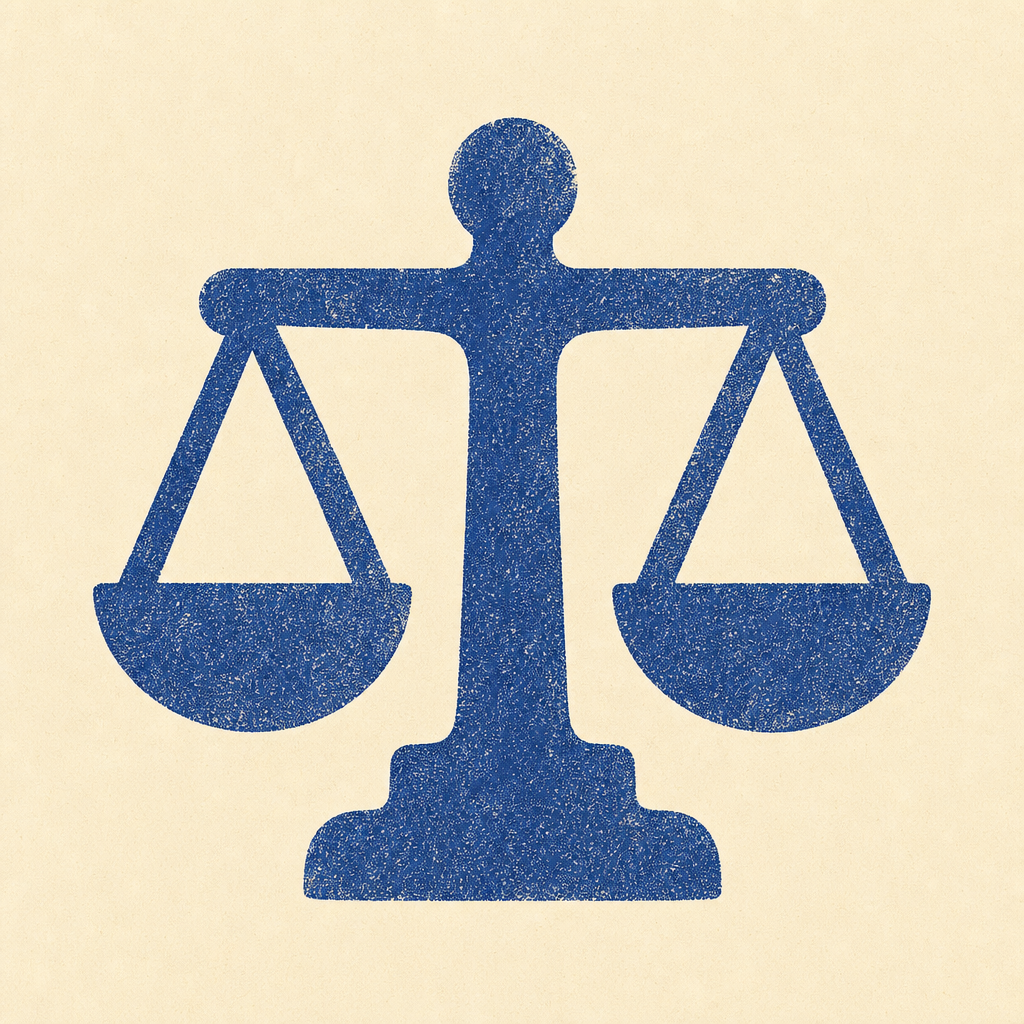
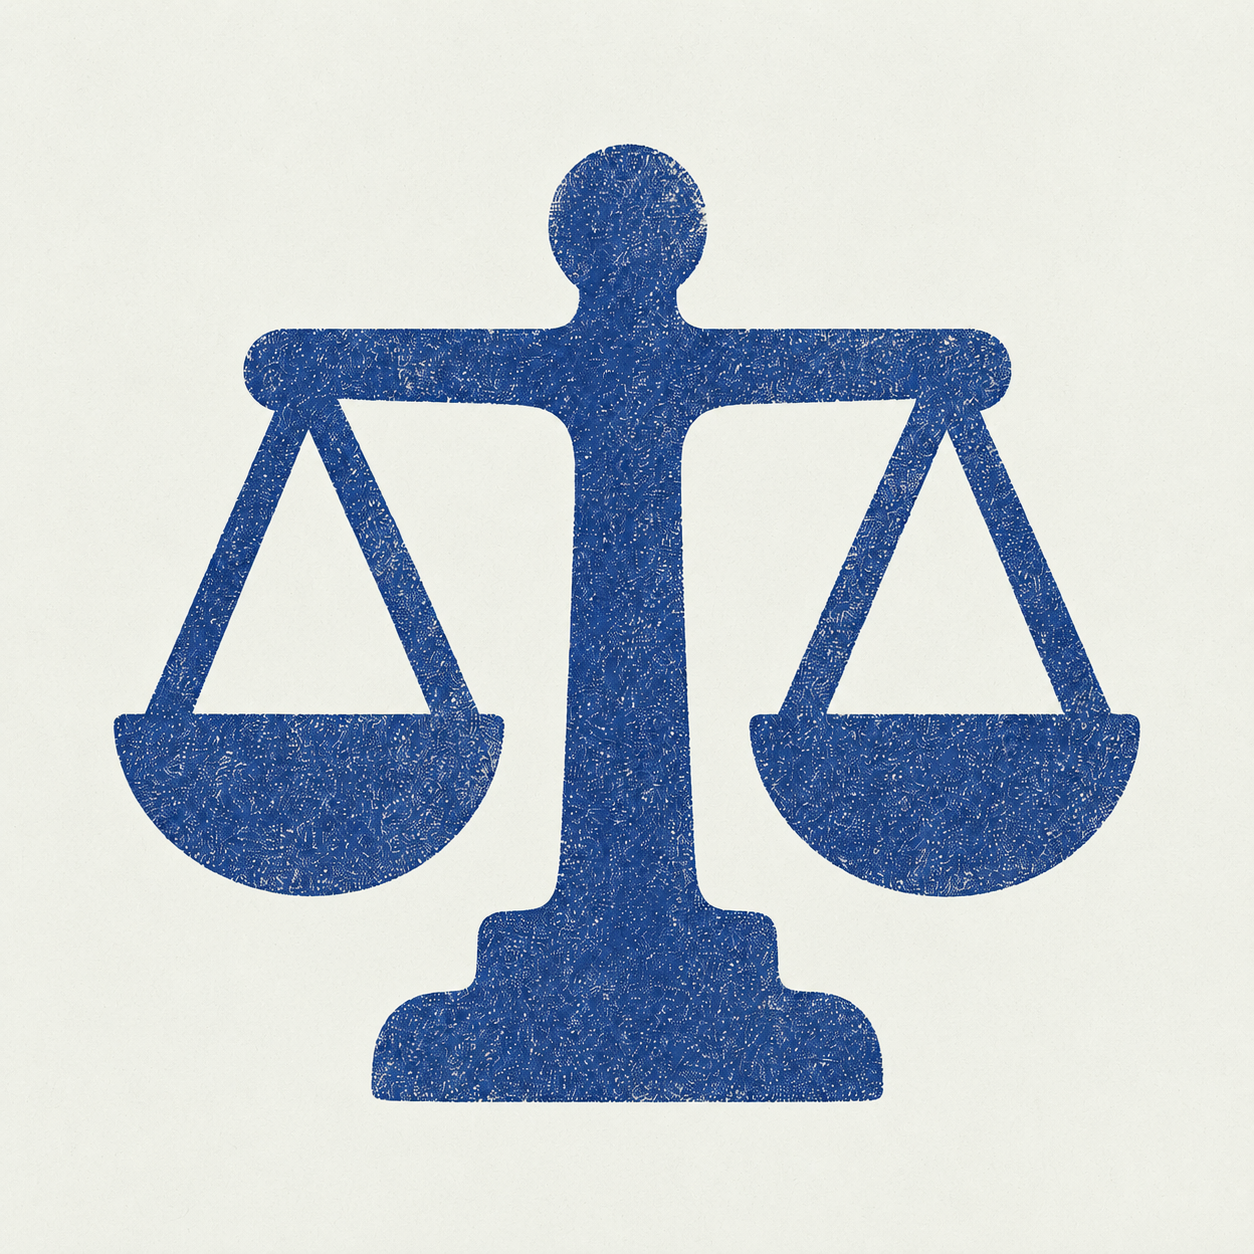
fix(works): scope shared metadata to the Japanese file and tighten image paths (#103)
* fix(works): scope shared metadata to the Japanese file and tighten image paths

Two findings from the review of #102.

The scaffold wrote year, stack, thumbnail and hero into index.en.md, but the
loader reads all four from index.ja.md. Editing the English copies changed
nothing on the page. The English scaffold now carries only the per-locale
fields and a note saying where the rest comes from, and `year` is required only
in the Japanese file.

`//example.com/a.png` passed the image-path check: it starts with a slash, but a
browser reads the second one as the start of a host and loads the image from
there, which is the opposite of the public/-only rule the check exists to
enforce. Such paths are now rejected.

Claude-Session: https://claude.ai/code/session_01PXWvydUrRDUoQcj45vEsFW

* chore(content): update the amortized-complexity thumbnail

Replaces the generated image with an edited one (1254x1254), and adds the
dependency-PR plan that had been sitting untracked.

Claude-Session: https://claude.ai/code/session_01PXWvydUrRDUoQcj45vEsFW

---------

diff --git a/.plans/2026-07-17-handle-dependency-prs.md b/.plans/2026-07-17-handle-dependency-prs.md
@@ -1,0 +1,49 @@
+# Plan
+
+## Goal
+
+Resolve every open dependency update pull request while preserving the repository's Node.js 22 runtime policy and keeping the default branch verified.
+
+## Scope
+
+- Review and process Dependabot pull requests #65 through #69.
+- Merge compatible Vite, ESLint, and Shiki updates one at a time after explicit user approval.
+- Reject the `@types/node` 26 update because repository workflows run Node.js 22, and tell Dependabot to ignore that major version.
+- Recheck each remaining pull request after earlier dependency updates change `main`.
+
+## Non-goals
+
+- Change the repository runtime from Node.js 22.
+- Merge unrelated pull request #74.
+- Enable automatic dependency merging.
+
+## Assumptions
+
+- The repository's repeated `node-version: "22"` workflow configuration is intentional.
+- Passing CI on each current pull request is necessary but must be reconfirmed after rebases or conflict resolution.
+- No pull request will be merged without a separate explicit user confirmation.
+
+## Steps
+
+1. Process the paired Shiki updates (#67 and #68) in sequence, requesting a Dependabot rebase when the first merge makes the second stale or conflicted.
+2. Process the ESLint update (#66) and the Vite update (#65), again waiting for a current, green CI result after any rebase.
+3. On #69, use Dependabot's `ignore this major version` command so Node.js 26 type definitions are not introduced while the project runs Node.js 22.
+4. Confirm that no open pull request with the `dependencies` label remains unexpectedly unresolved.
+5. Review the final `main` dependency manifest and lockfile state for consistency.
+
+## Verification
+
+- Require all GitHub checks to pass on each pull request at its current head before merging.
+- After the accepted updates are on `main`, run `python3 scripts/verify.py` against the combined dependency state.
+- Confirm `package.json` and `package-lock.json` agree and run `npm audit` to report any remaining known vulnerability.
+- Confirm the only intentionally rejected dependency update is documented by the Dependabot ignore action on #69.
+
+## Open Issues
+
+- None. The accepted updates were merged with current green checks, and #69 was closed with a Node.js 26 ignore rule.
+
+## Outcome
+
+- Merged #65, #66, #67, and #68.
+- Closed #69 by asking Dependabot to ignore the Node.js 26 major version.
+- Verified the combined `main` state with `python3 scripts/verify.py` and confirmed that no dependency-labeled pull request remains open.

diff --git a/src/content/works/linewatch/index.en.md b/src/content/works/linewatch/index.en.md
@@ -2,18 +2,12 @@
 # title      Work name. Required, must not be empty
 # tagline    One line shown on the index card and under the detail heading
 # summary    Description shown on the index card
-# year       Year of release. Required
-# stack      Technologies used. Rendered as chips
-# thumbnail  Index card image, path from public/. Empty renders a placeholder
-# hero       Detail page image, path from public/. Empty renders a placeholder
+#
+# year, stack, thumbnail and hero are taken from index.ja.md.
 
 title = "LineWatch"
 tagline = "Observe logs as lines"
 summary = "A lightweight observability dashboard that draws logs and metrics as minimal line art — anomalies shown by shape, not color."
-year = 2025
-stack = ["Rust", "WebAssembly", "Canvas"]
-thumbnail = ""
-hero = ""
 +++
 
 LineWatch turns the idea of quiet observability into a tool. Instead of noisy alerts it draws deviation from baseline as subtle distortions in thin lines.
